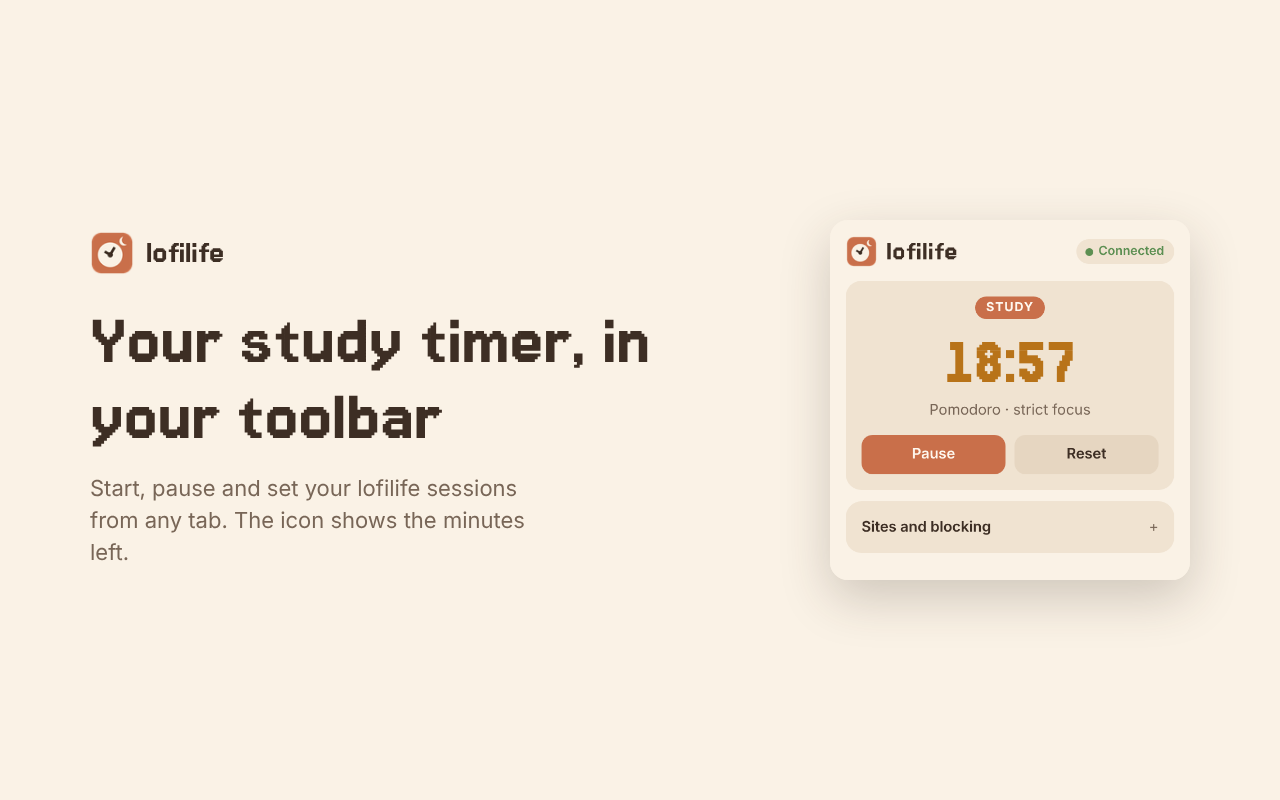
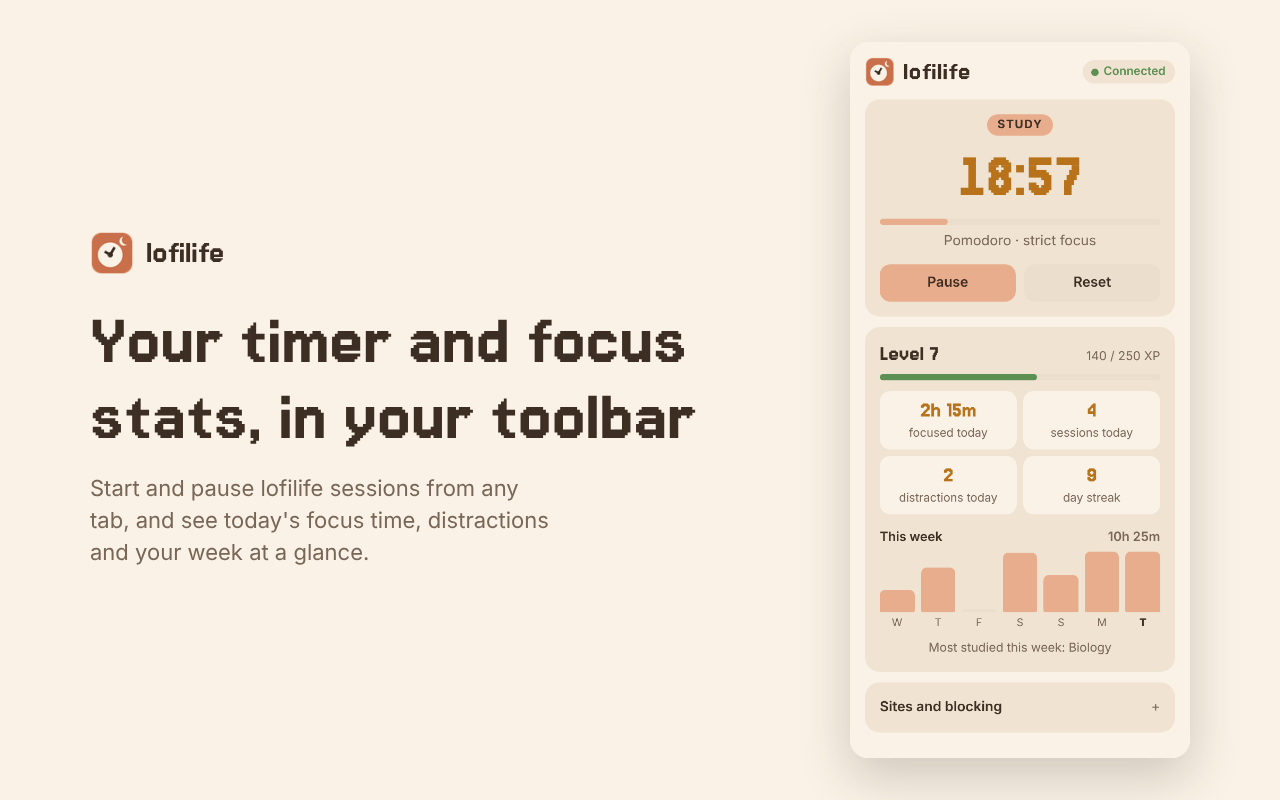
Extension 1.1.0: game menu colours, focus stats, in-game Get the extension button
- Game sends its menu palette, phase length and focus stats in the GET
  status (level/XP, minutes, sessions and distractions today, streak,
  last 7 days, top subject); distraction visits are counted per day
- Popup follows the game's menu colours (cached for the next open) and
  shows a session progress bar, stats tiles and a 7-day bar chart
- Settings > Browser extension: Get the extension opens the Chrome Web
  Store page (set ChromeWebEx.StoreUrl once listed)

diff --git a/BrowserExtension/popup.js b/BrowserExtension/popup.js
@@ -1,5 +1,34 @@
 const $ = id => document.getElementById(id);
 let running = false;
+const fmt = m => m >= 60 ? `${Math.floor(m / 60)}h ${String(m % 60).padStart(2, "0")}m` : `${m}m`;
+
+chrome.storage.local.get("theme").then(r => applyTheme(r.theme));
+let lastTheme = "";
+
+function showStats(st) {
+  $("level").textContent = `Level ${st.level}`;
+  $("xpText").textContent = `${st.xp} / ${st.xpNext} XP`;
+  $("xpBar").style.width = `${Math.min(100, 100 * st.xp / Math.max(1, st.xpNext))}%`;
+  $("today").textContent = fmt(st.todayMinutes);
+  $("sessions").textContent = st.todaySessions;
+  $("distractions").textContent = st.distractionsToday;
+  $("subject").textContent = st.topSubject ? `Most studied this week: ${st.topSubject}` : "";
+  $("streak").textContent = st.streak;
+  const week = st.week || [], max = Math.max(30, ...week), names = ["S", "M", "T", "W", "T", "F", "S"], now = new Date();
+  $("weekTotal").textContent = fmt(week.reduce((a, b) => a + b, 0));
+  $("week").setAttribute("aria-label", "Minutes studied in the last 7 days: " + week.join(", "));
+  $("week").replaceChildren(...week.map((m, i) => {
+    const col = document.createElement("div"), bar = document.createElement("div"), day = document.createElement("div");
+    col.className = "col" + (i === 6 ? " today" : "");
+    bar.className = "b" + (m > 0 ? " on" : "");
+    bar.style.height = `${(m / max) * 100}%`;
+    bar.title = fmt(m);
+    day.className = "d";
+    day.textContent = names[(now.getDay() - 6 + i + 7) % 7];
+    col.append(bar, day);
+    return col;
+  }));
+}
 
 async function refresh() {
   const status = await gameStatus();
@@ -8,7 +37,12 @@ async function refresh() {
   $("pill").className = "pill " + (status ? "on" : "off");
   $("timer").hidden = !status;
   $("offline").hidden = !!status;
+  $("stats").hidden = !status || status.level === undefined; // older game builds don't send stats
   if (!status) return;
+  const theme = JSON.stringify(status.theme || "");
+  if (theme !== lastTheme) { lastTheme = theme; applyTheme(status.theme); if (status.theme) chrome.storage.local.set({ theme: status.theme }); }
+  if (status.level !== undefined) showStats(status);
+  $("phaseBar").style.width = status.phaseSeconds ? `${Math.min(100, 100 * (1 - status.secondsLeft / status.phaseSeconds))}%` : "0";
   running = status.running;
   const s = Math.max(0, status.secondsLeft);
   $("clock").textContent = `${String(Math.floor(s / 60)).padStart(2, "0")}:${String(s % 60).padStart(2, "0")}`;

diff --git a/BrowserExtension/popup.css b/BrowserExtension/popup.css
@@ -52,4 +52,21 @@ details[open] summary { margin-bottom: 4px; }
 label { display: block; margin: 10px 0 4px; color: var(--muted); font-size: 12px; }
 select, textarea, input { width: 100%; background: var(--bg); color: var(--text); border: 1px solid var(--line); border-radius: 8px; padding: 7px 8px; font: inherit; }
 textarea { resize: vertical; }
-@media (prefers-reduced-motion: reduce) { button { transition: none; } }
+.bar { height: 6px; border-radius: 99px; background: var(--button); overflow: hidden; margin: 8px 0 6px; }
+.bar > div { height: 100%; width: 0; border-radius: inherit; background: var(--primary); transition: width 0.4s; }
+.bar.xp > div { background: var(--ok); }
+.level { display: flex; justify-content: space-between; align-items: baseline; }
+.level strong { font: 22px/1 "Jersey 15", system-ui, sans-serif; }
+.tiles { display: grid; grid-template-columns: repeat(2, 1fr); gap: 6px; margin: 10px 0 12px; }
+.tiles div { background: var(--bg); border-radius: 10px; padding: 6px 4px; text-align: center; }
+.tiles b { display: block; font: 22px/1.1 "Jersey 15", system-ui, sans-serif; color: var(--accent); }
+.tiles span { font-size: 11px; color: var(--muted); }
+.subject { margin-top: 8px; }
+.week-head { display: flex; justify-content: space-between; font-size: 12px; font-weight: 600; margin-bottom: 6px; }
+.week { display: grid; grid-template-columns: repeat(7, 1fr); gap: 6px; height: 74px; align-items: end; }
+.week .col { display: flex; flex-direction: column; align-items: center; gap: 3px; height: 100%; justify-content: flex-end; }
+.week .b { width: 100%; min-height: 3px; border-radius: 5px 5px 2px 2px; background: var(--button); }
+.week .b.on { background: var(--primary); }
+.week .d { font-size: 10px; color: var(--muted); }
+.week .today .d { color: var(--text); font-weight: 700; }
+@media (prefers-reduced-motion: reduce) { button, .bar > div { transition: none; } }

diff --git a/BrowserExtension/popup.html b/BrowserExtension/popup.html
@@ -15,6 +15,7 @@
   <section id="timer" class="card" hidden>
     <div id="phase" class="phase">Study</div>
     <div id="clock" class="clock" aria-live="off">--:--</div>
+    <div class="bar" aria-hidden="true"><div id="phaseBar"></div></div>
     <div id="mode" class="muted center"></div>
     <div id="distracted" class="alert" hidden>You're on a distracting site. Your room is falling apart!</div>
     <div class="row">
@@ -25,6 +26,23 @@
       <label class="inline"><input id="minutes" type="number" min="5" max="120" value="25" aria-label="Study length in minutes"> min</label>
       <button type="submit">Set length</button>
     </form>
+  </section>
+
+  <section id="stats" class="card" hidden>
+    <div class="level">
+      <strong id="level">Level 1</strong>
+      <span id="xpText" class="muted small">0 / 100 XP</span>
+    </div>
+    <div class="bar xp" aria-hidden="true"><div id="xpBar"></div></div>
+    <div class="tiles">
+      <div><b id="today">0m</b><span>focused today</span></div>
+      <div><b id="sessions">0</b><span>sessions today</span></div>
+      <div><b id="distractions">0</b><span>distractions today</span></div>
+      <div><b id="streak">0</b><span>day streak</span></div>
+    </div>
+    <div class="week-head"><span>This week</span><span id="weekTotal" class="muted"></span></div>
+    <div id="week" class="week" role="img"></div>
+    <div id="subject" class="muted small center subject"></div>
   </section>
 
   <section id="offline" class="card offline" hidden>

diff --git a/BrowserExtension/shared.js b/BrowserExtension/shared.js
@@ -42,3 +42,12 @@ function showBadge(status) {
   chrome.action.setBadgeText({ text: status ? String(Math.ceil(Math.max(0, status.secondsLeft) / 60)) : "" });
   if (status) chrome.action.setBadgeBackgroundColor({ color: !status.running ? "#786657" : status.studying ? "#c24d47" : "#5c8f52" });
 }
+
+// The game sends its menu palette (Paint > Menus), so the popup always matches the game. It's cached so pages open in the right colours.
+function applyTheme(t) {
+  if (!t || !t.panel) return;
+  const vars = { bg: t.panel, card: t.card, text: t.text, muted: t.muted, accent: t.accent, line: t.selected,
+    button: t.tab, primary: t.button, "on-primary": t.text, ok: t.xp, bad: t.danger };
+  for (const [k, v] of Object.entries(vars)) document.documentElement.style.setProperty("--" + k, v);
+  document.documentElement.style.colorScheme = t.light ? "light" : "dark";
+}

diff --git a/BrowserExtension/blocked.js b/BrowserExtension/blocked.js
@@ -1,3 +1,4 @@
+chrome.storage.local.get("theme").then(r => applyTheme(r.theme));
 const site = new URLSearchParams(location.search).get("site");
 if (site) document.getElementById("site").textContent = site;
 

diff --git a/Assets/Scripts/ChromeWebEx.cs b/Assets/Scripts/ChromeWebEx.cs
@@ -36,17 +36,33 @@ public class ChromeWebEx : MonoBehaviour
     private HttpListener _httpListener;
     private Thread _listenerThread;
     private volatile string _status = "{}"; // written on the main thread, served by the listener thread
-    private float _nextStatus;
+    private float _nextStatus, _nextStats;
+    private readonly Status _state = new Status();
 
     [Serializable]
     private class Status
     {
         public bool running, studying, strict, distracted;
-        public int secondsLeft;
+        public int secondsLeft, phaseSeconds;
         public string mode;
+        // Progress for the extension popup, refreshed every few seconds.
+        public int level, xp, xpNext, todayMinutes, todaySessions, distractionsToday, streak;
+        public string topSubject = ""; // most studied subject this week
+        public int[] week = new int[7]; // minutes studied per day, oldest first, today last
+        public Theme theme = new Theme();
+    }
+
+    // The menu palette as hex, so the extension popup matches the game (and follows Paint > Menus).
+    [Serializable]
+    private class Theme
+    {
+        public bool light;
+        public string panel, card, selected, tab, muted, button, text, accent, xp, danger;
     }
 
     public const string Address = "http://localhost:8080/";
+    // Chrome Web Store page for the extension; Settings > Browser extension opens it. Paste the item's URL here once it's listed.
+    public const string StoreUrl = "";
     public bool IsListening => _httpListener != null && _httpListener.IsListening;
     public string ListenError { get; private set; } = "";
     public float LastExtensionMessageAt { get; private set; } = -1; // unscaled time; pings don't count
@@ -155,16 +171,54 @@ public class ChromeWebEx : MonoBehaviour
         {
             _nextStatus = Time.unscaledTime + 0.5f;
             TimerManager timer = FindAnyObjectByType<TimerManager>();
-            _status = JsonUtility.ToJson(new Status
+            _state.running = timer != null && timer.IsTimerRunning;
+            _state.studying = timer == null || timer.IsStudySession;
+            _state.secondsLeft = timer != null ? Mathf.CeilToInt(timer.CurrentTime) : 0;
+            _state.phaseSeconds = timer == null ? 0 : Mathf.RoundToInt((timer.IsStudySession ? timer.StudyMinutes : timer.BreakMinutes) * 60f);
+            _state.mode = GameSettings.Modes[(int)GameSettings.Mode].name;
+            _state.strict = GameSettings.StrictFocus;
+            _state.distracted = Distraction.Reported;
+            if (Time.unscaledTime >= _nextStats) // the study log is parsed from PlayerPrefs, so not every half second
             {
-                running = timer != null && timer.IsTimerRunning,
-                studying = timer == null || timer.IsStudySession,
-                secondsLeft = timer != null ? Mathf.CeilToInt(timer.CurrentTime) : 0,
-                mode = GameSettings.Modes[(int)GameSettings.Mode].name,
-                strict = GameSettings.StrictFocus,
-                distracted = Distraction.Reported,
-            });
+                _nextStats = Time.unscaledTime + 5f;
+                UpdateStats();
+            }
+            _status = JsonUtility.ToJson(_state);
         }
+    }
+
+    private void UpdateStats()
+    {
+        Experience experience = FindAnyObjectByType<Experience>();
+        _state.level = experience != null ? experience.GetPlayerLevel() : 1;
+        _state.xp = experience != null ? experience.GetExperience() : 0;
+        _state.xpNext = experience != null ? experience.ExperienceToNextLevel : 100;
+        DateTime today = DateTime.Now.Date;
+        for (int i = 0; i < 7; i++) _state.week[i] = 0;
+        _state.todaySessions = 0;
+        var subjects = new System.Collections.Generic.Dictionary<string, int>();
+        foreach (StudyLog.Entry e in StudyLog.Entries)
+        {
+            if (!DateTime.TryParseExact(e.day, StudyHabit.Day, System.Globalization.CultureInfo.InvariantCulture, System.Globalization.DateTimeStyles.None, out DateTime day)) continue;
+            int ago = (today - day).Days;
+            if (ago < 0 || ago >= 7) continue;
+            _state.week[6 - ago] += e.minutes;
+            if (ago == 0) _state.todaySessions += e.sessions;
+            subjects[e.subject] = (subjects.TryGetValue(e.subject, out int m) ? m : 0) + e.minutes;
+        }
+        _state.todayMinutes = _state.week[6];
+        _state.topSubject = "";
+        int best = 0;
+        foreach (var pair in subjects) if (pair.Value > best) { best = pair.Value; _state.topSubject = pair.Key; }
+        _state.distractionsToday = PlayerPrefs.GetString(DistractionDayKey, "") == StudyHabit.Today ? PlayerPrefs.GetInt(DistractionCountKey, 0) : 0;
+        _state.streak = StudyLog.DayStreak();
+
+        Theme t = _state.theme;
+        string Hex(Color c) => "#" + ColorUtility.ToHtmlStringRGB(c);
+        t.light = UIKit.LightTheme;
+        t.panel = Hex(UIKit.PanelColor); t.card = Hex(UIKit.CardColor); t.selected = Hex(UIKit.SelectedColor);
+        t.tab = Hex(UIKit.TabColor); t.muted = Hex(UIKit.MutedText); t.button = Hex(UIKit.AccentButtonColor);
+        t.text = Hex(UIKit.TextColor); t.accent = Hex(UIKit.AccentColor); t.xp = Hex(UIKit.XpColor); t.danger = Hex(UIKit.DangerColor);
     }
 
     private string Handle(string body)
@@ -194,6 +248,8 @@ public class ChromeWebEx : MonoBehaviour
                 GameSettings.Mode = GameSettings.FocusMode.Custom; // no longer one of the presets
                 return $"Extension: sessions are now {timer.StudyMinutes:0} minutes";
             case "distracted":
+                // a new visit during a study session, not the 30 s re-report or a break
+                if (!Distraction.Reported && timer != null && timer.IsTimerRunning && timer.IsStudySession) CountDistraction();
                 Distraction.Report(command.site);
                 return $"Extension: distracted by {Distraction.Site}";
             case "back":
@@ -208,6 +264,15 @@ public class ChromeWebEx : MonoBehaviour
                 return "Extension: +1 XP for staying focused";
         }
         return $"Extension: can't {command.action} right now";
+    }
+
+    private const string DistractionDayKey = "ExtDistractionDay", DistractionCountKey = "ExtDistractions";
+
+    private static void CountDistraction()
+    {
+        bool sameDay = PlayerPrefs.GetString(DistractionDayKey, "") == StudyHabit.Today;
+        PlayerPrefs.SetString(DistractionDayKey, StudyHabit.Today);
+        PlayerPrefs.SetInt(DistractionCountKey, sameDay ? PlayerPrefs.GetInt(DistractionCountKey, 0) + 1 : 1);
     }
 
     private static Command Parse(string body)

diff --git a/Assets/Scripts/UI/SettingsUI.cs b/Assets/Scripts/UI/SettingsUI.cs
@@ -406,7 +406,10 @@ public class SettingsUI : MonoBehaviour
         statusText.gameObject.AddComponent<LayoutElement>().flexibleWidth = 1;
 
         GameObject buttons = Row("Buttons", page, 42, 10, false);
-        SmallButton(buttons.transform, "Test connection", AccentButtonColor, 160).onClick.AddListener(() => StartCoroutine(Test()));
+        // Chrome only installs extensions from its store page, so one click here opens that page and "Add to Chrome" finishes it.
+        SmallButton(buttons.transform, "Get the extension", AccentButtonColor, 170).onClick.AddListener(() =>
+            Application.OpenURL(string.IsNullOrEmpty(ChromeWebEx.StoreUrl) ? "https://chromewebstore.google.com/search/lofilife" : ChromeWebEx.StoreUrl));
+        SmallButton(buttons.transform, "Test connection", TabColor, 150).onClick.AddListener(() => StartCoroutine(Test()));
         SmallButton(buttons.transform, "Reconnect", TabColor, 120).onClick.AddListener(() => { if (bridge != null) bridge.Restart(); });
         SmallButton(buttons.transform, "Copy setup info", TabColor, 150).onClick.AddListener(() =>
         {
@@ -422,8 +425,8 @@ public class SettingsUI : MonoBehaviour
             v => GameSettings.DistractionCoinsPerMinute = Mathf.RoundToInt(v), out _);
 
         Note(page,
-            "Install the extension from the game's BrowserExtension folder (Chrome: Extensions, Developer mode, Load unpacked), "
-            + "keep the game running, and it connects by itself. It talks to the game at "
+            "Press Get the extension, then Add to Chrome on the store page (it works in Edge and Brave too). "
+            + "Keep the game running and it connects by itself. Its popup shows your timer, level, coins and this week's study time in the game's menu colours. It talks to the game at "
             + $"<color=#{ColorUtility.ToHtmlStringRGB(AccentColor)}>{ChromeWebEx.Address}</color>: it can start, pause and reset the timer, "
             + "set the session length, earn focus XP on study sites, and tell the game when you're on a distracting one. "
             + "Copy setup info gives the full message list.");

diff --git a/BrowserExtension/README.md b/BrowserExtension/README.md
@@ -3,6 +3,8 @@
 A Chrome extension that connects your browser to the lofilife desktop game while it runs. It works in Chrome, Edge, Brave and other Chromium browsers (version 120 or newer). The web and iOS versions of the game don't talk to it.
 
 - **Popup:** shows the game's timer. You can start, pause and reset it, and set the study length (5 to 120 minutes, while the timer is stopped).
+- **Focus stats:** level and XP, minutes focused, sessions and distractions today, your day streak, a bar chart of the last 7 days and your most studied subject this week.
+- **Game colours:** the popup uses the game's menu colours and follows Paint > Menus when you change them.
 - **Badge:** the toolbar icon shows the minutes left: terracotta while studying, green on a break, grey when paused, blank when the game isn't running.
 - **Distracting sites** (YouTube, TikTok, Reddit and so on, editable in the popup): during a study session, being on one makes the room in the game fall apart and drains coins until you leave.
 - **Blocking:** the extension can also block distracting sites. It does this during strict focus sessions by default, during every study session if you choose, or never.
@@ -24,7 +26,7 @@ The listing text, permission justifications and images are in [`store/`](store/)
 ## How it talks to the game
 The extension uses plain HTTP on `http://localhost:8080/`, which `ChromeWebEx.cs` serves while the game runs.
 
-- **GET** returns `{"running","studying","secondsLeft","mode","strict","distracted"}`.
+- **GET** returns `{"running","studying","secondsLeft","phaseSeconds","mode","strict","distracted"}`, plus stats (`level`, `xp`, `xpNext`, `todayMinutes`, `todaySessions`, `distractionsToday`, `streak`, `week` (7 days, today last), `topSubject`) and `theme` (the menu palette as hex). Older game builds leave the stats out and the popup hides them.
 - **POST** sends a JSON body `{"action": ...}`. The actions are:
   - `start`, `pause`, `reset`
   - `set` with `minutes`

diff --git a/BrowserExtension/store/LISTING.md b/BrowserExtension/store/LISTING.md
@@ -15,6 +15,8 @@ Focus companion for the lofilife desktop game: control your study timer, earn XP
 >
 > • See your study timer in the toolbar. The icon shows the minutes left.
 > • Start, pause, reset or change the length of a session from any tab.
+> • See your focus stats: time focused, sessions and distractions today, your streak, and a chart of your week.
+> • The popup matches the menu colours you pick in the game.
 > • Open a distracting site during a study session and your room in the game starts falling apart until you leave.
 > • Study sites like Google Docs, Notion and Wikipedia earn focus XP.
 > • Block distracting sites during strict focus sessions, during every study session, or never.
